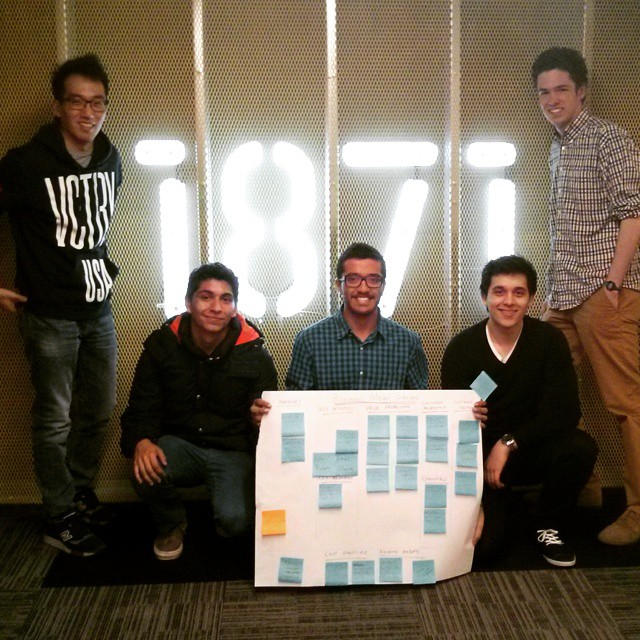
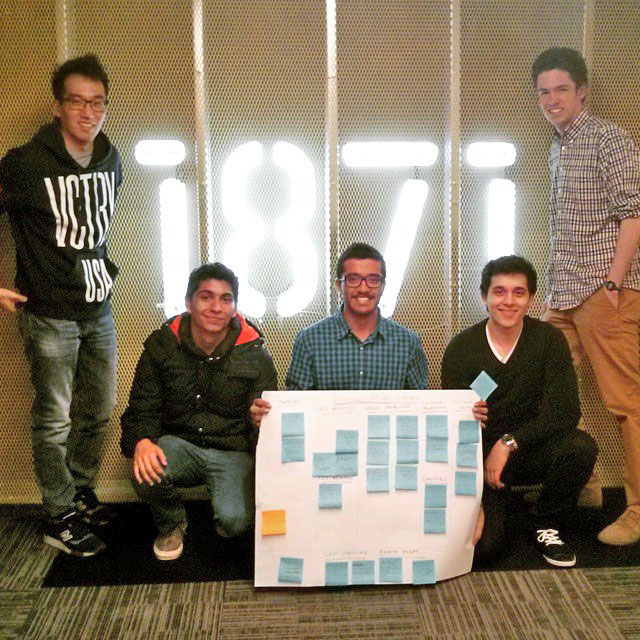
added vignette hover effect to team picture

diff --git a/index.html b/index.html
@@ -69,7 +69,8 @@
           
         </div>
         <div class="col-md-6">
-          <img src="assets/img/teampicture.jpg" class="img-responsive mt" alt="Campus 1871 Group Picture">
+         <!-- <img src="assets/img/teampicture.jpg" class="img-responsive mt" alt="Campus 1871 Group Picture" id="vignette"> -->
+         <div id="vignette"><img src="assets/img/teampicture.jpg" class="img-responsive mt teamphoto" alt="Campus 1871 Group Picture"> </div>
         </div>
       </div><!--/row-->
     </div><!--/container-->

diff --git a/assets/css/style.css b/assets/css/style.css
@@ -440,4 +440,23 @@ a.team:focus {
 
 }
 
+div#vignette {
+	-webkit-transition: all ease 0.5s;
+	-moz-transition: all ease 0.5s;
+	-o-transition: all ease 0.5s;
+	-ms-transition: all ease 0.5s;
+	transition: all ease 0.5s;
+}
+
+div#vignette:hover{
+box-shadow:inset 0px 0px 85px rgba(0,0,0,.5);
+-webkit-box-shadow:inset 0px 0px 85px rgba(0,0,0,.5);
+-moz-box-shadow:inset 0px 0px 85px rgba(0,0,0,.5);
+}
+
+img.teamphoto{
+z-index: -1;
+position: relative;
+}
+
 
